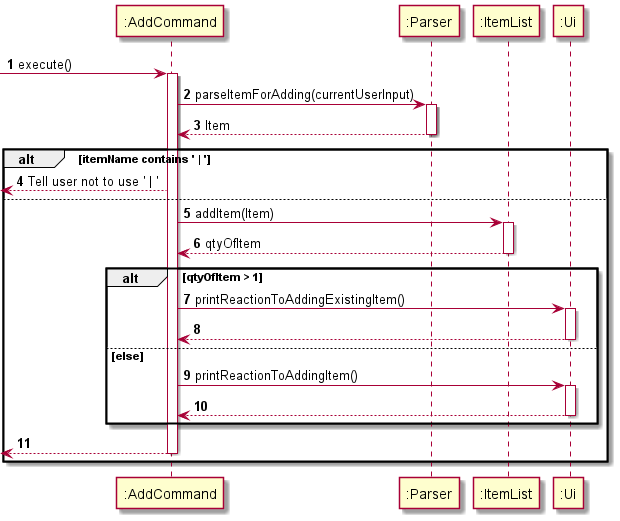
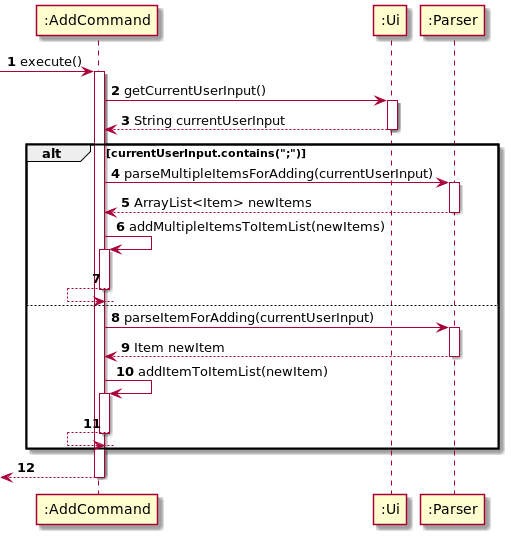
Update DG regarding AddCommand

Changed region(s): [[0.0, 0.0, 0.998, 1.0], [0.6164, 0.0, 0.9687, 0.0921]]

diff --git a/docs/DeveloperGuide.md b/docs/DeveloperGuide.md
@@ -35,7 +35,7 @@ Each rectangle above represents a class that exists to make Fridget work.
 The larger folders represent the main purpose of the classes inside it.
 Their functions are as follows:
 
-#### **Front End**
+#### <ins>**Front End**</ins>
 
 The front end aims to handle:
 - Reading <ins>inputs</ins> from the user
@@ -47,7 +47,7 @@ The Ui manages the entirety of the front end.
 - It collects user input and stores it.
 - It also prints any necessary output to the terminal.
 
-#### **Core**
+#### <ins>**Core**</ins>
 
 The core aims to understand and execute the user's commands.
 
@@ -69,12 +69,13 @@ There is a Command class for each possible command the user could execute.
 Each Command class controls the Ui, Parser, ItemList, and ShoppingList so the User's intended outcome is achieved.
 
 ![image info](./umlDiagrams/Command.png)
+
 The Command class is inherited by its respective subclasses, which have their own specific functionalities.
 
 The Command class contain an `execute()` method which is overridden by all other classes to execute the
 functionality specific to that class.
 
-#### **Database**
+#### <ins>**Database**</ins>
 
 The Database stores all info that is needed on a permanent basis. This may
 include info such as the contents of ItemList. Most info in the Database
@@ -86,13 +87,15 @@ on.
 The Storage class takes charge of storing items after every command, and
 retrieving them upon startup.
 
-#### Fridget
+#### <ins>**Fridget**</ins>
 
 #### `Fridget`
 
 Fridget initialises all classes upon startup, and initiates the user feedback loop as shown below.
 
 ![image info](./umlDiagrams/UserFeedbackLoop.png)
+
+<hr/>
 
 ### Architecture Logic
 
@@ -124,6 +127,8 @@ The overall flow within Fridget occurs in three stages:
 2. This `ExitCommand` prints a message to let the user know Fridget is shutting down.
 3. `Fridget` recognises that `ExitCommand.exitNotRequired()` is not false, and shuts down Fridget safely.
 
+<hr/>
+
 ### Adding Items Into Fridget
 
 #### Main Objectives:
@@ -135,6 +140,7 @@ The functionality to add items is bound by two main objectives:
 As a result, the current iteration requires two pieces of info from the user:
 * The name of the item
 * The expiry date of the item
+* The quantity of the item to be added
 
 This is done to minimize the input required from the user per entry, while maximising future uses with the data.
 
@@ -143,6 +149,7 @@ Future uses include:
 * Combining items with similar names and expiry together
 * Sort all items by expiry date
 * Remind users of expiring items by name
+* Update quantity of items already in itemList
 
 #### Overall Sequence:
 
@@ -154,30 +161,66 @@ This step is almost always initiated by Fridget, but could potentially be done b
 
 Step 2 & 3:
 
-The parseItemForAdding() method is called in Parser, with the currentUserInput as a parameter.
-The parser returns an Item with the name and expiry date specified in the user input. 
+The currentUserInput is retrieved from the Ui using the method getCurrentUserInput()
 
-Step 4:
+Step 4 & 5:
 
-If the user uses the ' | ' character in the item's name, an exception is thrown.
-This is done as the ' | ' may confuse the Storage class.
+If the user input contains `;`, it means that the user wants to add multiple items. Hence, the parser is called to parse the user input and return an ArrayList of Items the user wants to add called newItems.
 
-Step 5 & 6:
+Steps 6 & 7:
 
-The Item is added to ItemList.
-ItemList returns a value signifying the current quantity of Item in ItemList.
+The addMultipleItemsToItem method is called to add all items in newItems. More information can be found [below](#addmultipleitemstoitemlist).
 
-Step 7 & 8:
+Steps 8 & 9:
 
-If the Item already exists in Fridget's ItemList, print a message with the Ui to signify that the quantity of the existing item has increased to the user.
+If there is no `;` in the currentUserInput, the user only wants to add one item. A new Item is parsed using the parser method: parseItemForAdding.
 
-Step 9 & 10:
+Step 10 & 11:
 
-If the item does not exist, print a message using Ui to signify to the user that a new Item has been added into Fridget.
+The addItemToItemList method is called to add the newItem to the ItemList.
 
-Step 11:
+#### addMultipleItemsToItemList
 
-The execution of the execute() method ends.
+![image info](./umlDiagrams/addMultipleItemsToItemListSequence.png)
+
+Step 1:
+
+The addMultipleItemsToItemList is called by AddCommand, with the ArrayList of Items to add(newItem) as a parameter.
+
+Step 2 & 3:
+
+The addItemToItemList method is called on each item in the list. More information can be found [below](#additemtoitemlist).
+
+Step 4 & 5:
+
+The printSeparatorLine method in Ui is called to separate the output created by the addition of one item from the next. It is only not called for the last Item in newItems.
+
+#### addItemToItemList
+
+![image info](./umlDiagrams/addItemToItemListSequence.png)
+
+Step 1:
+
+The addItemToItemList method is called from within AddCommand.
+
+Step 2 & 3:
+
+AddCommand calls getQuantityToBeAdded in Ui to read the input from the user to determine the quantity of the item to be added (qtyToBeAdded).
+
+Step 4 & 5:
+
+AddCommand calls addItem(newItem) in ItemList to add the newItem into the ItemList. This method returns the final quantity of the item left.
+
+Step 6 & 7:
+
+If the original quantity of the item was greater than 0, printReactionToAddingExistingIngredient is called in Ui to acknowledge to the user that the item had already existed in the fridge.
+
+Step 8 & 9:
+
+If the original quantity of the item was 0, printReactionToAddingItem is called in Ui to acknowledge to the user that the item had not existed in the fridge previously.
+
+
+
 
 ### Removing Items From Fridget
 
